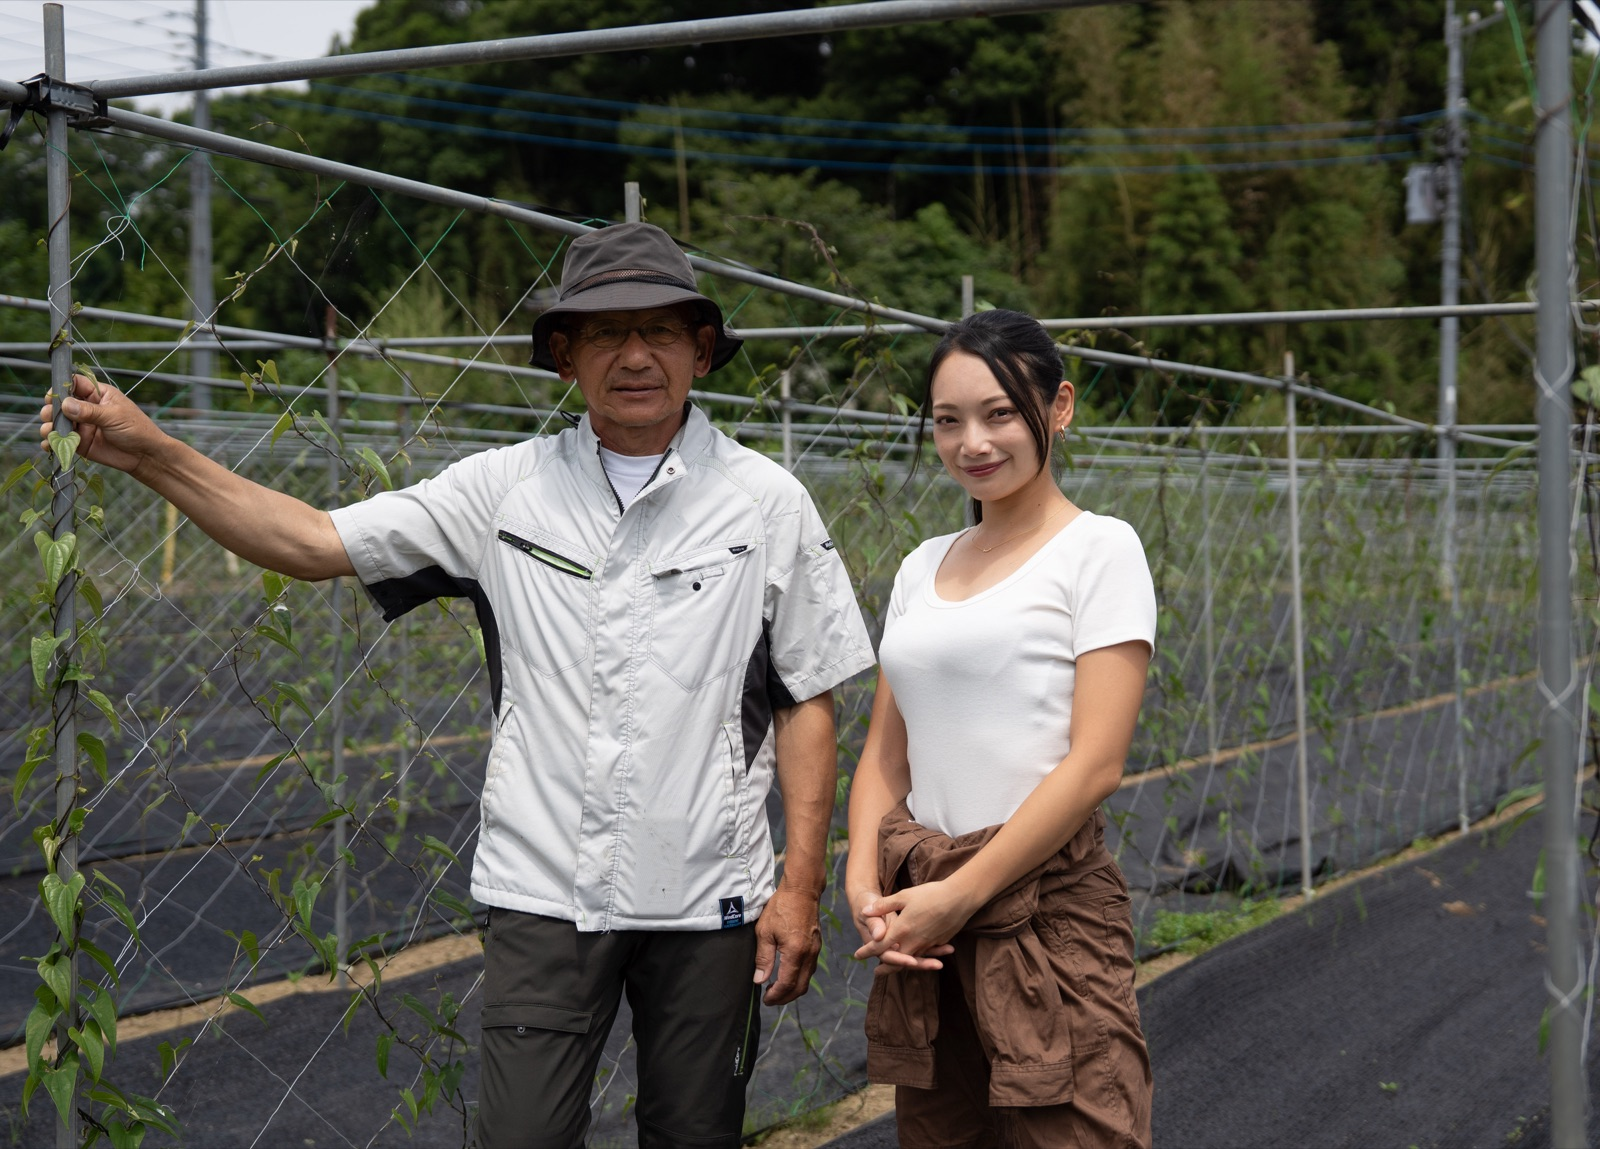
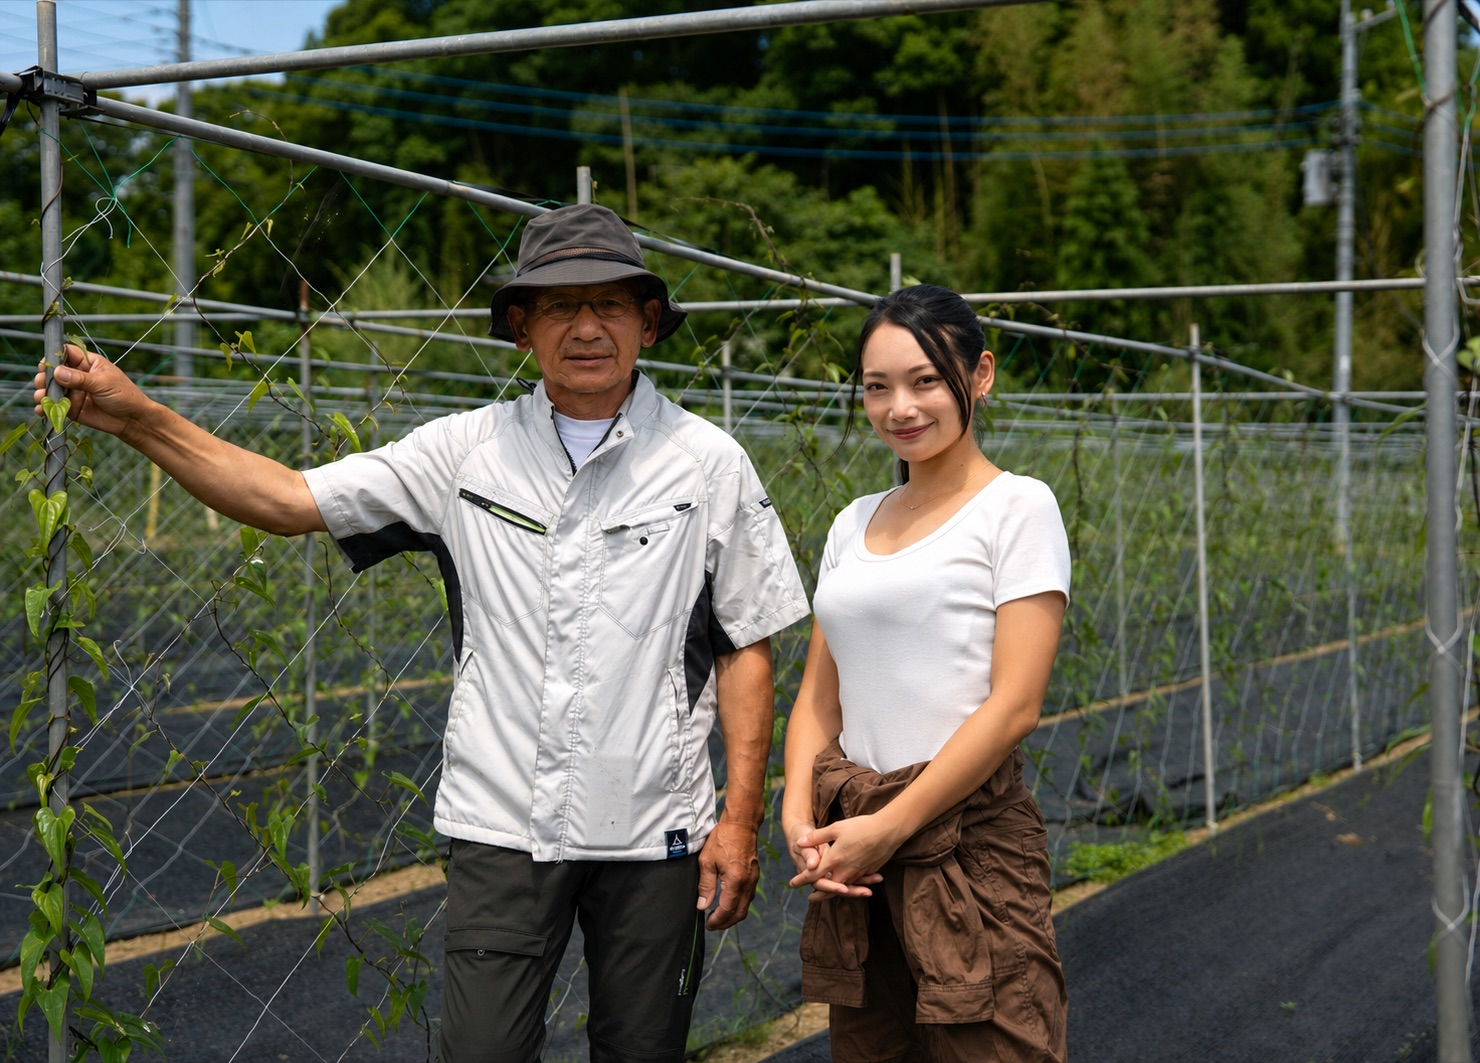
fix: REPRESENTATIVEセクションの写真をトリミング版に更新
- jinenjyo-34.jpg をユーザートリミング版に更新（JPEG品質80で再変換）
- ファイル名が同一のため、Xserverキャッシュ対策で img src に ?v=20260714b を付与

diff --git a/about/index.html b/about/index.html
@@ -177,7 +177,7 @@
     <div class="split">
       <div class="split-media">
         <div class="photo-frame">
-          <img src="/assets/images/jinenjyo-34.jpg" alt="北茨城の畑に立つ、代表・田口実佳と父・田口勉" loading="lazy">
+          <img src="/assets/images/jinenjyo-34.jpg?v=20260714b" alt="北茨城の畑に立つ、代表・田口実佳と父・田口勉" loading="lazy">
         </div>
       </div>
       <div class="split-text">